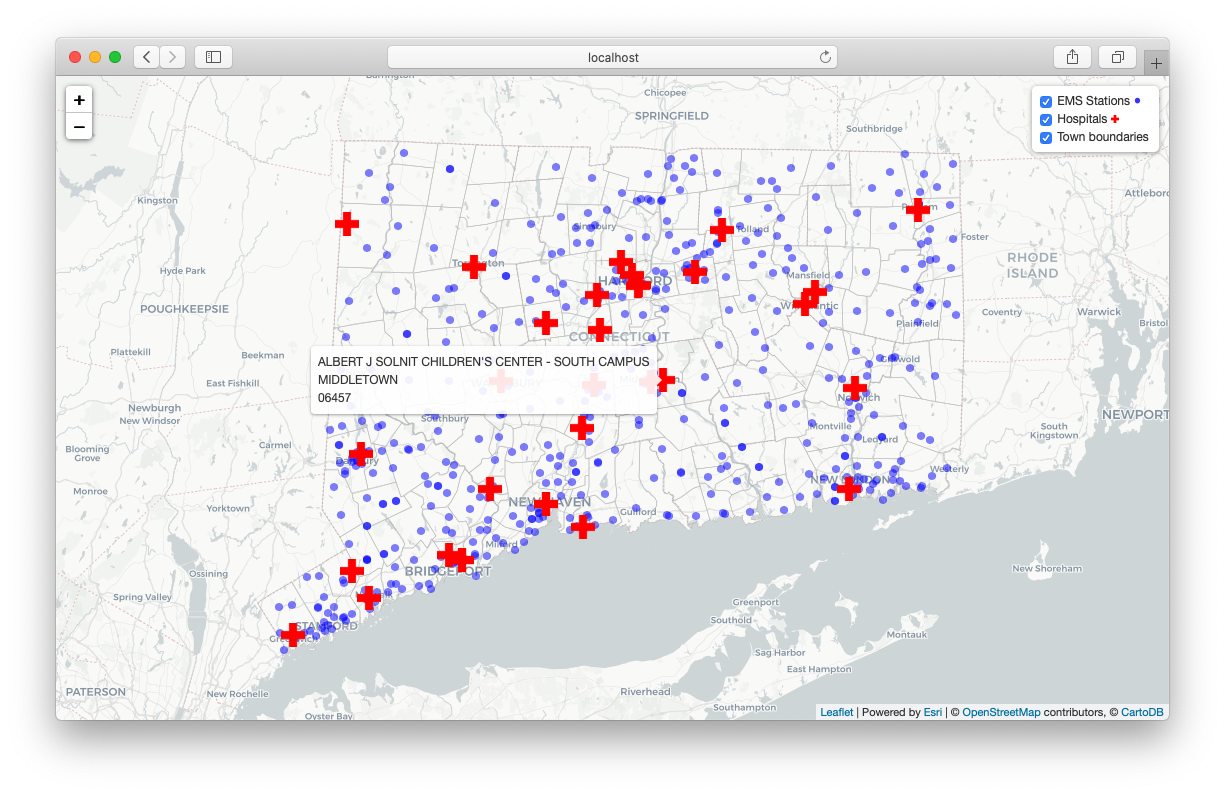
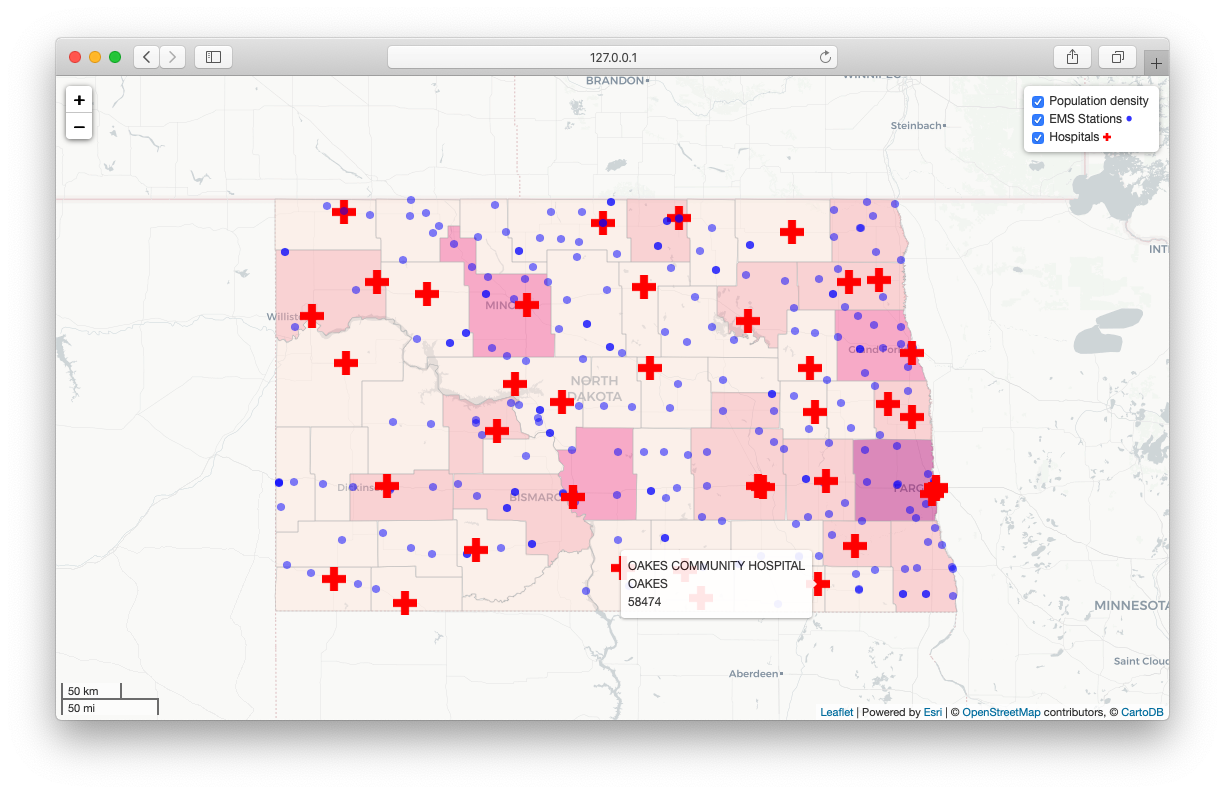
Change CT to North Dakota

diff --git a/index.html b/index.html
@@ -39,22 +39,26 @@
 
   <script>
     // Initialize the map with specified center coordinates and zoom level
+    // for target area (North Dakota)
     var map = L.map('map', {
-      center: [41.76, -72.5],
-      zoom: 9,
+      center: [47.55, -100.34],
+      zoom: 7,
     })
 
 
     // Add Carto baselayer
-    var baselayer = new L.tileLayer('https://cartodb-basemaps-{s}.global.ssl.fastly.net/light_all/{z}/{x}/{y}.png', {
+    var baselayer = new L.tileLayer('https://{s}.basemaps.cartocdn.com/light_all/{z}/{x}/{y}{r}.png', {
       attribution: '&copy; <a href="http://www.openstreetmap.org/copyright">OpenStreetMap</a> contributors, &copy; <a href="http://cartodb.com/attributions">CartoDB</a>'
     }).addTo(map)
 
+    // Add scale
+    L.control.scale().addTo(map);
+
 
     /*
-      Add a legend (checkboxes) to the upper-right corner
-      At first, baselayers and overlays are set to `null`
-      We will add items to the legend
+      Add a legend (checkboxes) to the upper-right corner.
+      At first, baselayers and overlays are set to `null` (empty legend).
+      We will be adding items to the legend as we load layers.
     */
     var legend = L.control.layers( null, null, {
       position: "topright",
@@ -63,37 +67,45 @@
 
 
     /*
-      Add town boundaries for Connecticut using a GeoJSON export option from Socrata
-      Source: https://data.ct.gov/Government/Town-Boundary-Index-Map/evyv-fqzg
-      Minimum interactive elements, only thin light gray town boundaries
+      Add county boundaries for North Dakota from an Esri server
+      located at https://ndgishub.nd.gov/arcgis/rest/services/All_GovtBoundaries/MapServer
+
+      Since each feature also contains population density, turn boundaries
+      into a choropleth by filling in features with shades of pink using a function
     */
-    $.getJSON('https://data.ct.gov/api/geospatial/evyv-fqzg?method=export&format=GeoJSON', function(data) {
+    var getDensityColor = function(d) {
+      return d > 100  ? '#7a0177' :
+              d > 50  ? '#c51b8a' :
+              d > 20  ? '#f768a1' :
+              d > 5   ? '#fbb4b9' :
+                        '#feebe2'
+    }
 
-      var towns = L.geoJson(data, {
-        fillOpacity: 0,
-        weight: 0.5,
-        color: 'silver',
-      }).addTo(map)
+    var counties = L.esri.featureLayer({
+      url: 'https://ndgishub.nd.gov/arcgis/rest/services/All_GovtBoundaries/MapServer/20',
+      style: function(feature) {
+        return {
+          fillOpacity: 0.5,
+          weight: 0.5,
+          color: 'silver',
+          fillColor: getDensityColor(feature.properties.POP10_SQMI)
+        }
+      }
+    }).addTo(map)
 
-      // Add town boundaries as a checkbox to the legend
-      legend.addOverlay(towns, 'Town boundaries')
-
-      // Re-center the map view
-      map.fitBounds( towns.getBounds() )
-
-    })
+    legend.addOverlay(counties, 'Population density')
 
 
     /*
       Add EMS Stations as small blue points. To each point, attach tooltips with
       the name of the station.
 
-      Data by Homeland Infrastructure Foundation-Level Data (Esri server),
+      Data by Homeland Infrastructure Foundation-Level Data (Esri server), queries for North Dakota (ND),
       available at https://hifld-geoplatform.opendata.arcgis.com/datasets/emergency-medical-service-ems-stations/geoservice
     */
     var ems = L.esri.featureLayer({
       url: 'https://services1.arcgis.com/Hp6G80Pky0om7QvQ/arcgis/rest/services/EMS_Stations/FeatureServer/0',
-      where: "STATE = 'CT'",
+      where: "STATE = 'ND'",
       pointToLayer: function(feature, latlng) {
         return L.circleMarker(latlng, {
           radius: 4,
@@ -111,24 +123,17 @@
 
 
     /*
-      From Socrata database of Medicare, add general hospitals in Connecticut
-      using simple filtering on the `state` column.
+      From Medicare's Socrata database, add general hospitals in North Dakota
+      using simple filtering on the `state` column, and a GeoJSON endpoint.
 
-      We rely on the geocoded_column (invisible in the table view of Socrata)
-      to contain latitude and longitude values.
+      Each point is a custom .png icon with a tooltip containing hospital's name,
+      city, and zipcode.
     */
-    $.getJSON("https://data.medicare.gov/resource/xubh-q36u.json?state=CT", function(data) {
-      
-      var hospitals = []
+    $.getJSON("https://data.medicare.gov/resource/xubh-q36u.geojson?state=ND", function(data) {
 
-      for (var i = 0; i < data.length; i++) {
-
-        if (data[i].geocoded_column) {
-          // Read point's coordinates (lon, lat)
-          var lonlat = data[i].geocoded_column.coordinates
-
-          // Create a marker with reversed coordinates order
-          var marker = L.marker( [lonlat[1], lonlat[0] ], {
+      var hospitals = L.geoJson(data, {
+        pointToLayer: function(feature, latlng) {
+          return L.marker(latlng, {
             icon: L.icon({
               iconUrl: 'images/hospital.png',
               iconSize: [24, 24],
@@ -136,22 +141,15 @@
               opacity: 0.5
             })
           }).bindTooltip(
-            data[i].hospital_name
-              + '<br>' + data[i].city
-              + '<br>' + data[i].zip_code
+            feature.properties.hospital_name
+              + '<br>' + feature.properties.city
+              + '<br>' + feature.properties.zip_code
           )
-
-          // Add marker to an array of markers
-          hospitals.push(marker)
         }
-
-      }
-
-      // Create a single layer from all individual markers
-      var hospitalsLayer = L.layerGroup(hospitals).addTo(map)
+      }).addTo(map)
 
       // Add layer to the legend, together with the little icon
-      legend.addOverlay(hospitalsLayer, 'Hospitals <img src="images/hospital.png" height="8" alt="Hospital">')
+      legend.addOverlay(hospitals, 'Hospitals <img src="images/hospital.png" height="8" alt="Hospital">')
 
     })
 

diff --git a/README.md b/README.md
@@ -8,34 +8,40 @@ If you plan to query Socrata heavily, it is recommended you sign up for an API t
 ### Example of data fetch from Socrata
 
 Assuming you have your `map` initialized and layers control created, load data from a GeoJSON endpoint in Socrata
-and add it to the map as shown below.
+and add it to the map, using custom icons for markers.
 
 ```javascript
-$.getJSON('https://data.ct.gov/api/geospatial/evyv-fqzg?method=export&format=GeoJSON', function(data) {
+$.getJSON("https://data.medicare.gov/resource/xubh-q36u.geojson?state=ND", function(data) {
 
-  var towns = L.geoJson(data, {
-    fillOpacity: 0,
-    weight: 0.5,
-    color: 'silver',
+  var hospitals = L.geoJson(data, {
+    pointToLayer: function(feature, latlng) {
+      return L.marker(latlng, {
+        icon: L.icon({
+          iconUrl: 'images/hospital.png',
+          iconSize: [24, 24],
+          iconAnchor: [12, 12],
+          opacity: 0.5
+        })
+      }).bindTooltip(
+        feature.properties.hospital_name
+          + '<br>' + feature.properties.city
+          + '<br>' + feature.properties.zip_code
+      )
+    }
   }).addTo(map)
-
-  // Add town boundaries as a checkbox to the legend
-  legend.addOverlay(towns, 'Town boundaries')
-
-  // Re-center the map view
-  map.fitBounds( towns.getBounds() )
-
+  
 })
 ```
 
 ### Example of data load using esri-leaflet plugin
 
 Esri-leaflet plugin allows you to load the data without using jQuery's `getJSON()` function.
+You can add point-level data to the map as shown below:
 
 ```javascript
 var ems = L.esri.featureLayer({
   url: 'https://services1.arcgis.com/Hp6G80Pky0om7QvQ/arcgis/rest/services/EMS_Stations/FeatureServer/0',
-  where: "STATE = 'CT'",
+  where: "STATE = 'ND'",
   pointToLayer: function(feature, latlng) {
     return L.circleMarker(latlng, {
       radius: 4,
@@ -44,12 +50,10 @@ var ems = L.esri.featureLayer({
       weight: 0.1,
       opacity: 1,
       fillOpacity: 0.5,
-      pane: 'markerPane'
+      pane: 'markerPane'  // to make sure points stay above polygons and remain clickable
     }).bindTooltip(feature.properties.NAME)
   }
 }).addTo(map)
-
-legend.addOverlay(ems, 'EMS Stations')
 ```
 
 ## Learn more
